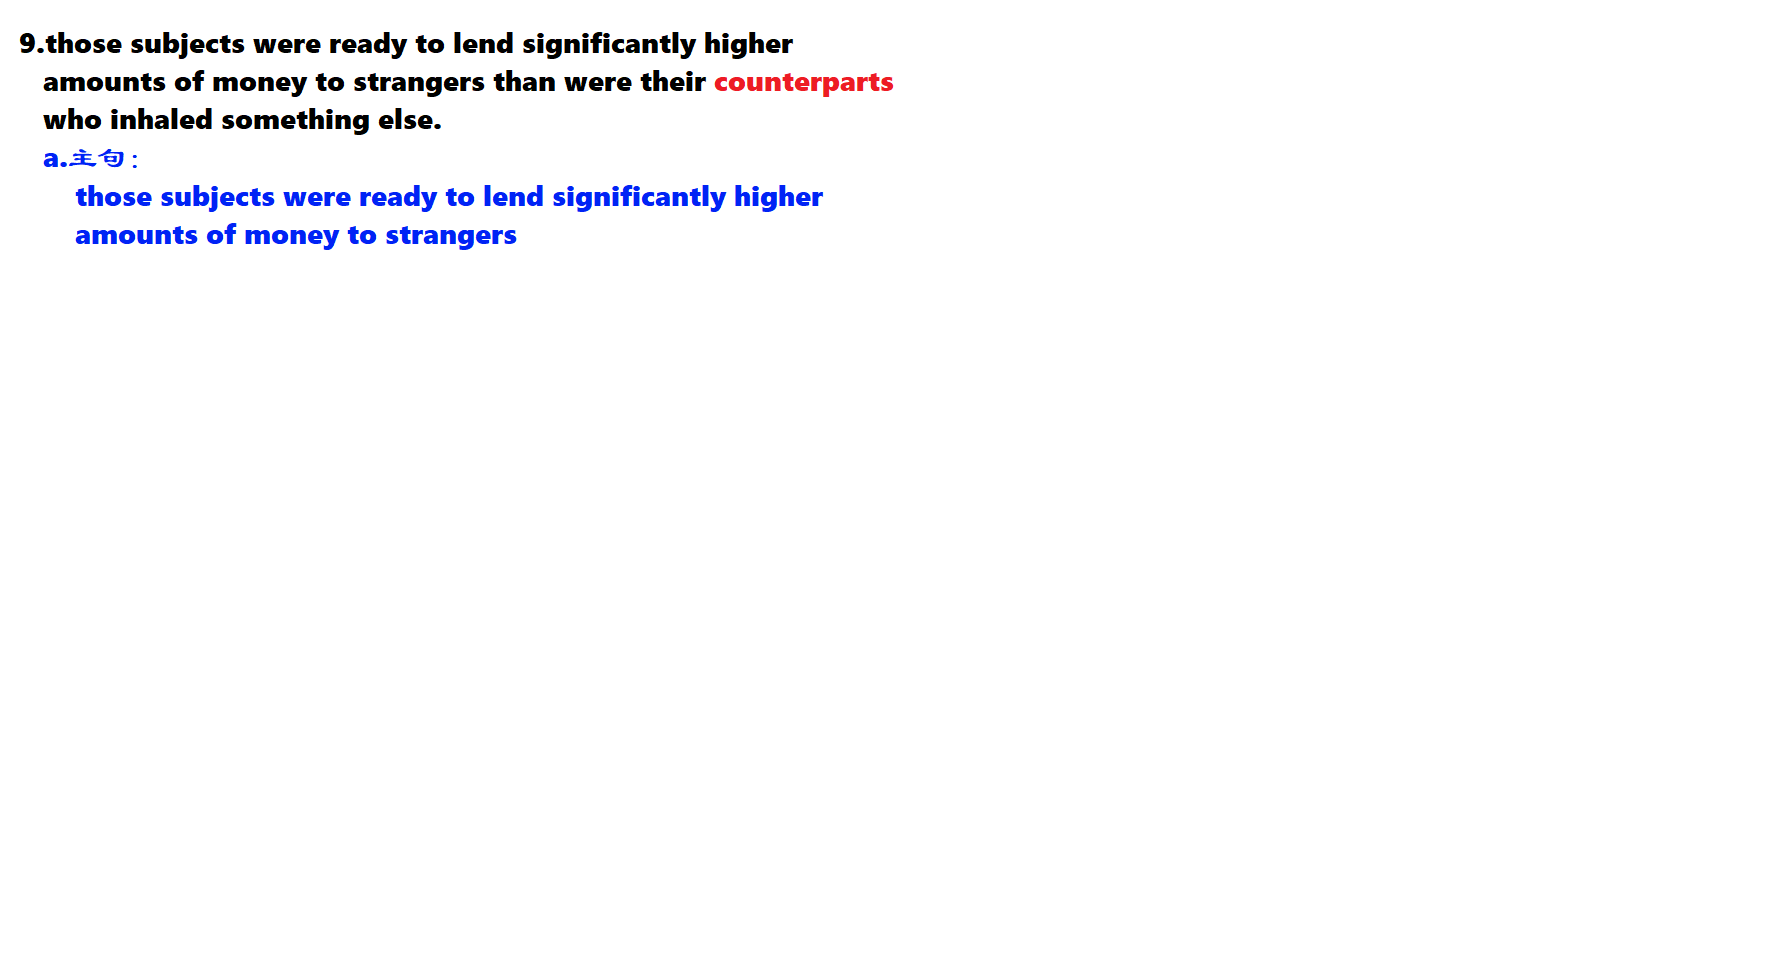
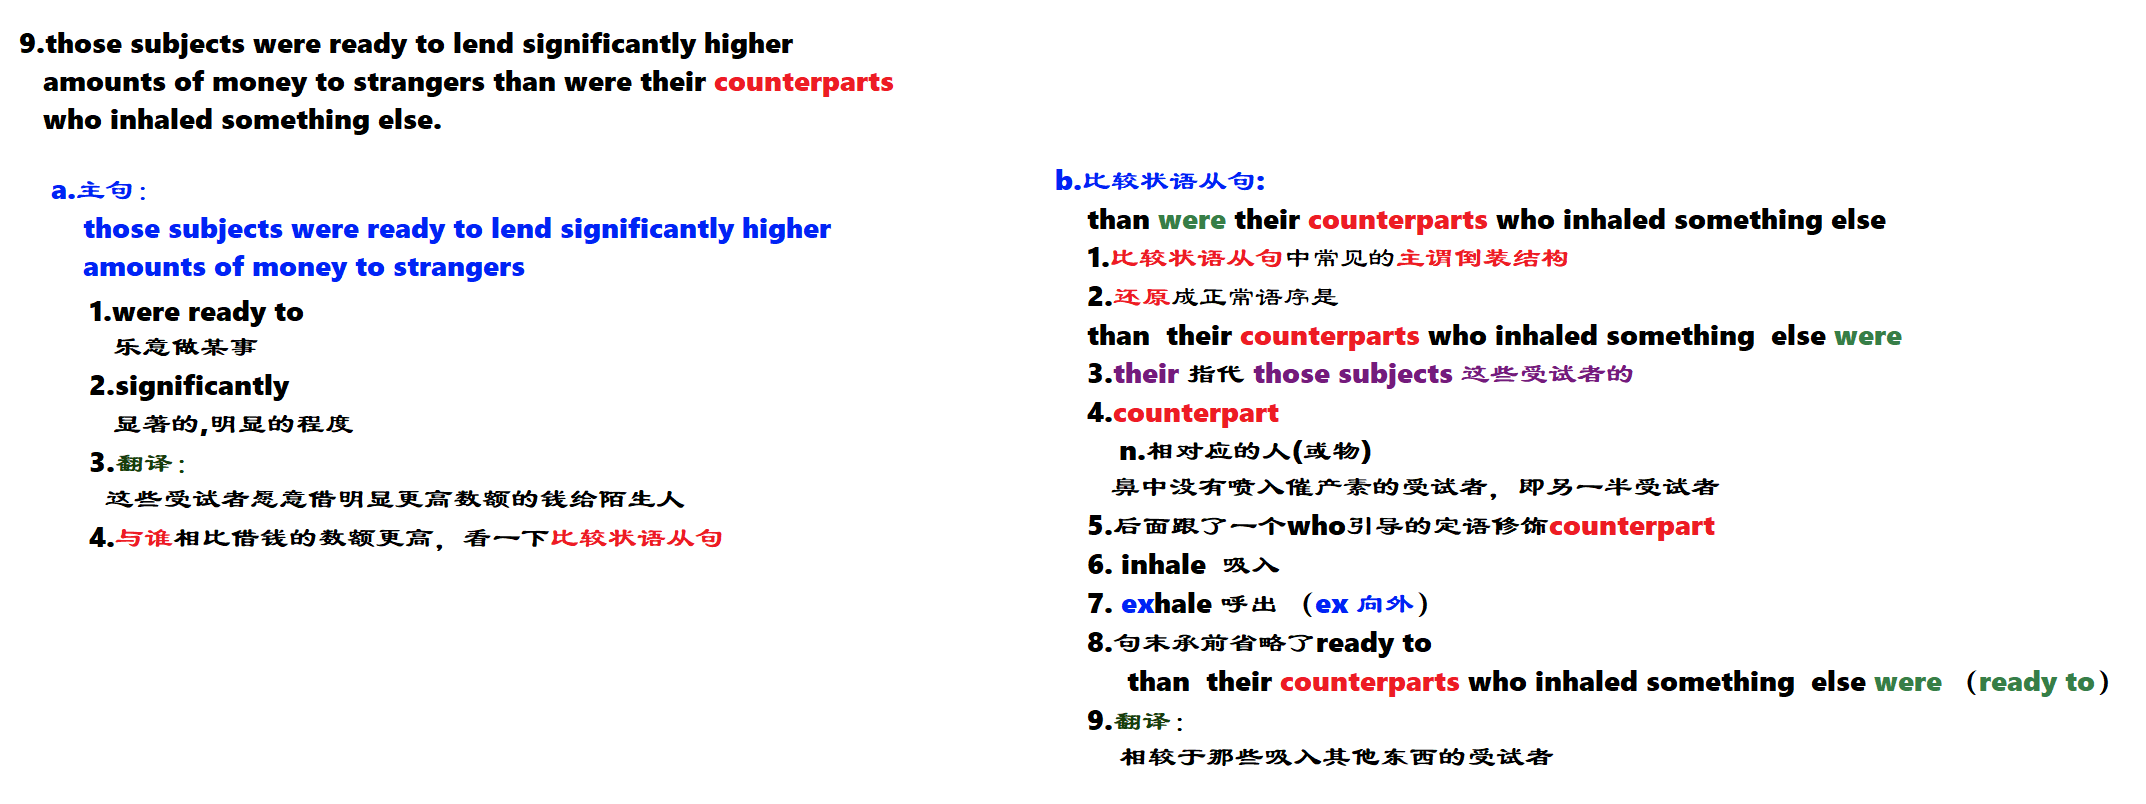
20230729

diff --git a/01 真题/02 2018/01 Note.md b/01 真题/02 2018/01 Note.md
@@ -5,7 +5,31 @@
 # 目录
 
 * 试题：P113
+* 黄皮书 逐词逐句精讲 P337
+* 黄皮书 真题解析 P570
+* 新东方 P1
 
 
 
 # 完型 1空：0.5‘ 共：10’  
+
+
+
+# 01 first  错6题 扣3‘ 得7’
+
+![image-20230728135735448](https://cvp.oss-cn-shanghai.aliyuncs.com/picgo/202307281357779.png)
+
+# 02 解析 
+
+
+
+# 长难句
+
+![image-20230729141619400](https://cvp.oss-cn-shanghai.aliyuncs.com/picgo/202307291416607.png)
+
+# 单词 短语
+
+
+
+
+
